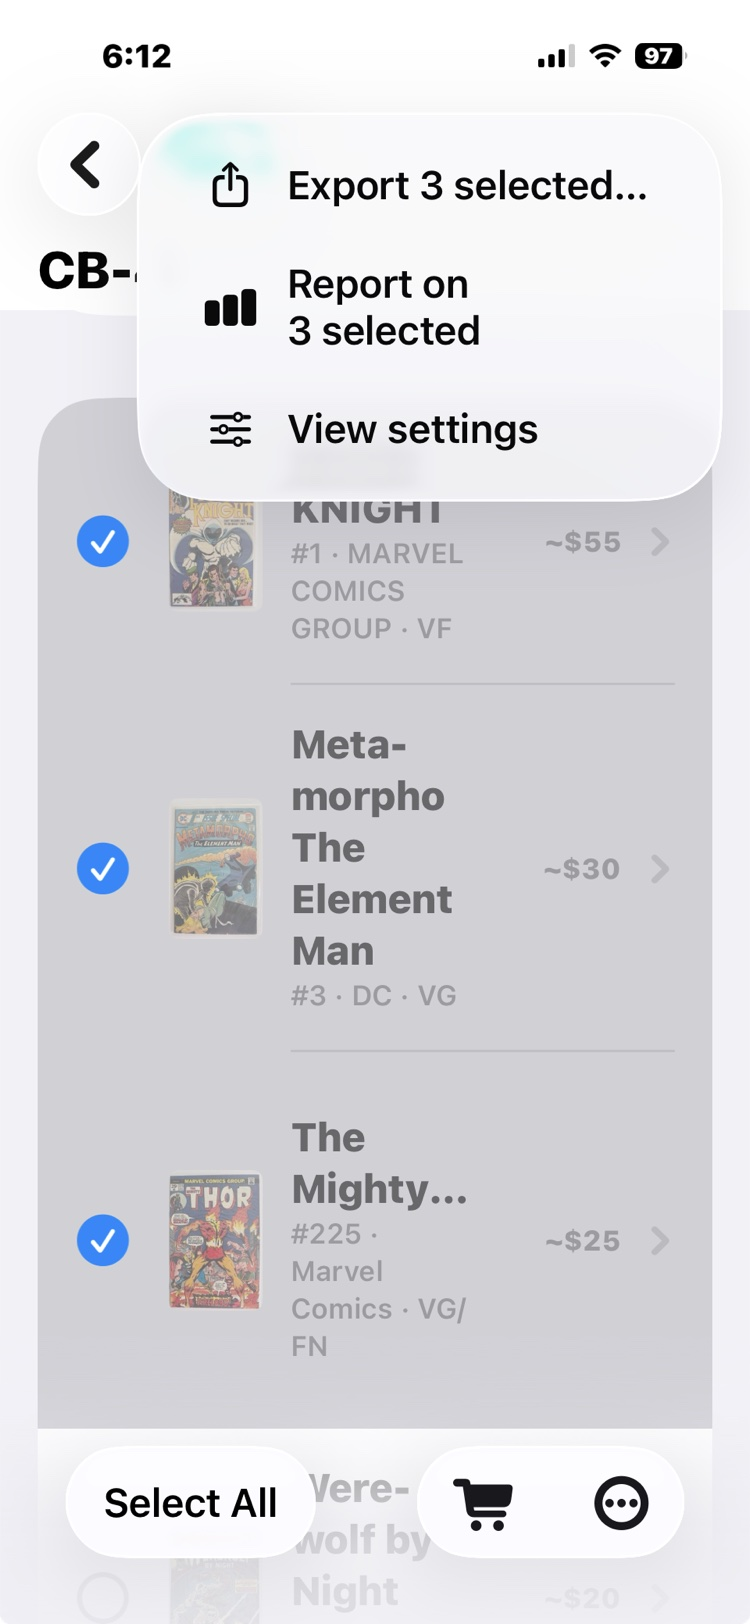
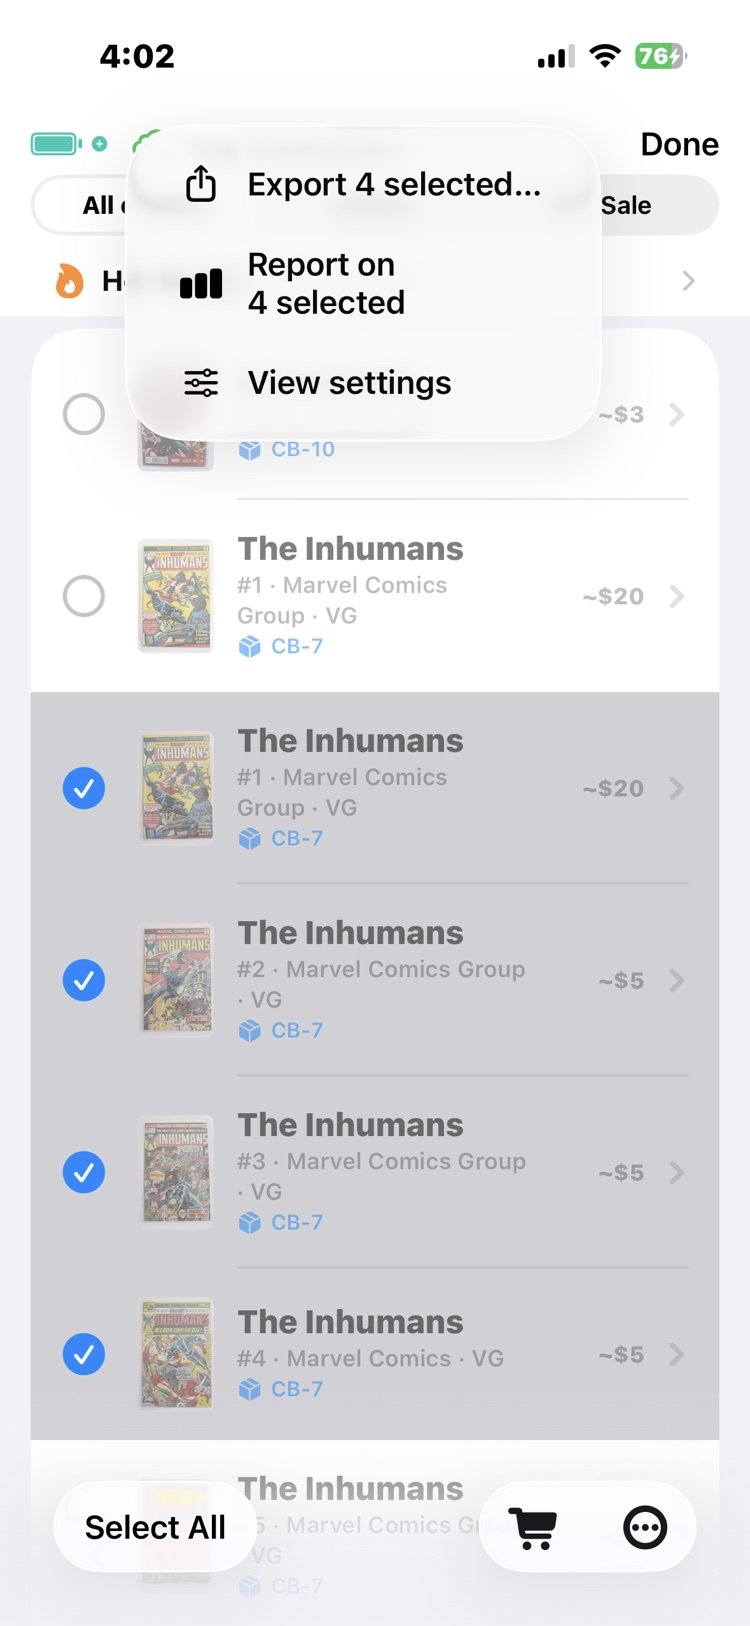
Four Inhumans go out the door, and the export sheet follows them

diff --git a/howto/sharing-backup-restore.html b/howto/sharing-backup-restore.html
@@ -276,12 +276,12 @@
     export into one collection, so your shelf layout stays yours.</p>
     <div class="phone-strip">
       <figure>
-        <img src="../images/export-1.jpg" width="750" height="1624" loading="lazy"
-             alt="Selection mode with three books checked and the menu open on Export 3 selected." />
+        <img src="../images/export-1.jpg" width="750" height="1626" loading="lazy"
+             alt="Selection mode with four Inhumans issues checked and the menu open on Export 4 selected." />
         <figcaption>Select the books; Export is one menu item away.</figcaption>
       </figure>
       <figure>
-        <img src="../images/export-2.jpg" width="750" height="1624" loading="lazy"
+        <img src="../images/export-2.jpg" width="750" height="1626" loading="lazy"
              alt="The Export sheet: four formats with Books .cbshare chosen, its explainer, and the field checklist of eleven toggles with All and Reset." />
         <figcaption>Pick a format, then pick the fields: nothing unchecked leaves
           the phone.</figcaption>

diff --git a/README.md b/README.md
@@ -125,7 +125,7 @@ delete the raw. One copy per picture.
 | `barcoding-1.jpg` | barcoding how-to | **Done 2026-09-07**: CB-11, with -2 and -3 reshot alongside (109 labels, four sheets) | |
 | `backup-reminder.jpg` | sharing how-to | **Done 2026-09-07**: the banner over the Boxes tab, from the older phone (828 × 1792, resized to 750 × 1623) | |
 | `convention-table-2.jpg` | convention-table scenario | **Done 2026-09-07**: an Avengers search, with -1 reshot alongside (1,073 books) and two new how-to figures, `kiosk-grid.jpg` and `kiosk-update.jpg` | |
-| `export-1.jpg` | sharing how-to | "KNIGHT · MARVEL COMICS GROUP" beside "Meta-morpho The Element Man" | Selection mode, three checked, menu open on Export 3 selected |
+| `export-1.jpg` | sharing how-to | **Done 2026-09-07**: four Inhumans checked, with -2 reshot alongside | |
 | `voice-scan-1.jpg` | scanning how-to | Not stale, just 360 × 778: the weakest file on the site | Voice scan mid-session, New comic badge, a spoken comment transcribed under the book |
 
 Close calls that stay: `ballpark-run-3/4/5` show only the "The Tomb of
